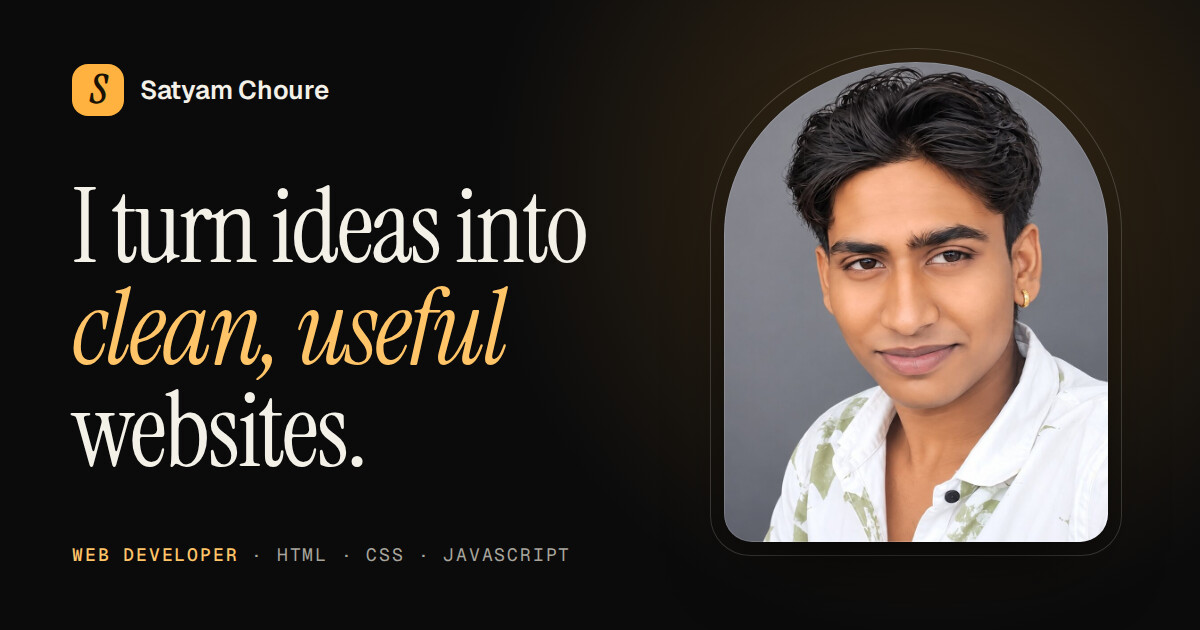
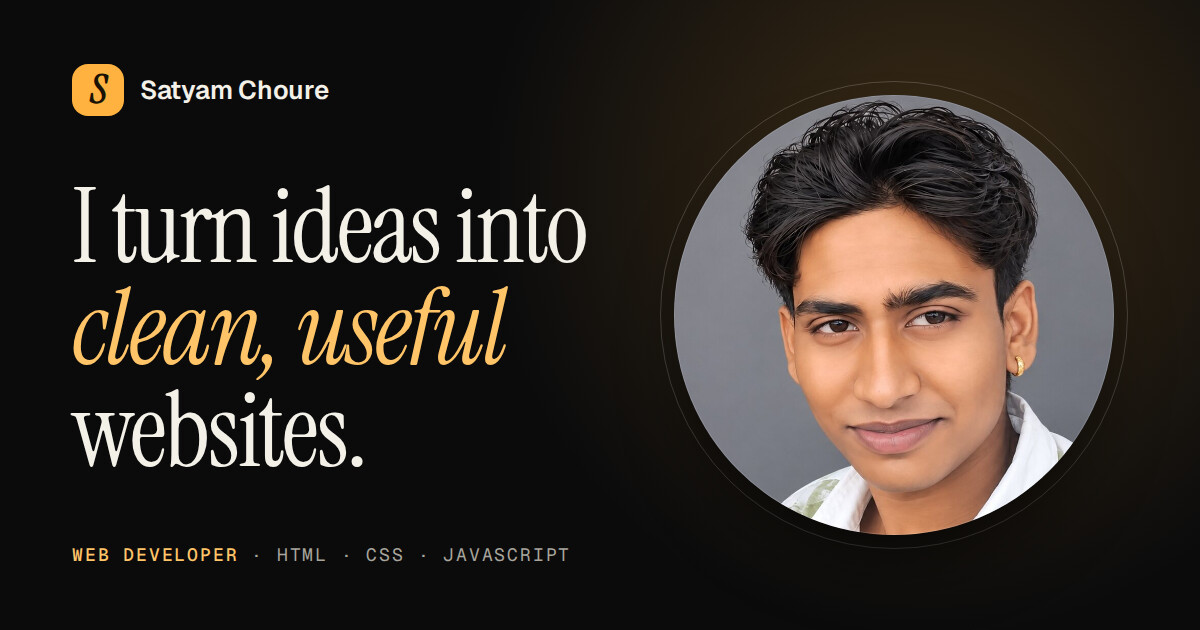
Change hero portrait mask from arch to circle
Replace the arch-shaped portrait mask with a circle: square frame with a
fully round radius, matching circular outline ring, and the bottom gradient
removed (it only suited the arch's flat base). Crop is anchored to the top so
the hair keeps breathing room inside the circle.

Regenerate the 1200x630 link-preview image so shared links show the same
circular portrait.

Claude-Session: https://claude.ai/code/session_01Nmc34DwXj3RH144a9CZ4eo

Changed region(s): [[0.555, 0.0905, 0.925, 0.8746], [0.925, 0.4524, 0.9558, 0.5429]]

diff --git a/style.css b/style.css
@@ -448,9 +448,9 @@ em { font-family: var(--font-display); font-style: italic; font-weight: 400; }
 .portrait { position: relative; justify-self: end; width: min(100%, 440px); }
 .portrait__frame {
   position: relative;
-  aspect-ratio: 4 / 5;
+  aspect-ratio: 1;
   overflow: hidden;
-  border-radius: 50% 50% 28px 28px / 36% 36% 28px 28px;
+  border-radius: 50%;
   background: var(--surface-2);
   box-shadow: 0 40px 80px -40px var(--shadow);
 }
@@ -460,23 +460,22 @@ em { font-family: var(--font-display); font-style: italic; font-weight: 400; }
   inset: 0;
   border-radius: inherit;
   box-shadow: inset 0 0 0 1px light-dark(rgb(20 19 15 / .12), rgb(255 255 255 / .14));
-  background: linear-gradient(to top, rgb(0 0 0 / .35), transparent 38%);
   pointer-events: none;
 }
-.portrait__frame img { width: 100%; height: 100%; object-fit: cover; object-position: 50% 14%; }
+.portrait__frame img { width: 100%; height: 100%; object-fit: cover; object-position: 50% 0%; }
 .portrait::before {
   content: "";
   position: absolute;
   inset: -14px;
   border: 1px solid var(--line-2);
-  border-radius: 50% 50% 40px 40px / 36% 36% 40px 40px;
+  border-radius: 50%;
   pointer-events: none;
 }
 
 .chip {
   position: absolute;
   left: -28px;
-  bottom: 44px;
+  bottom: 28px;
   display: flex;
   align-items: center;
   gap: .9em;
